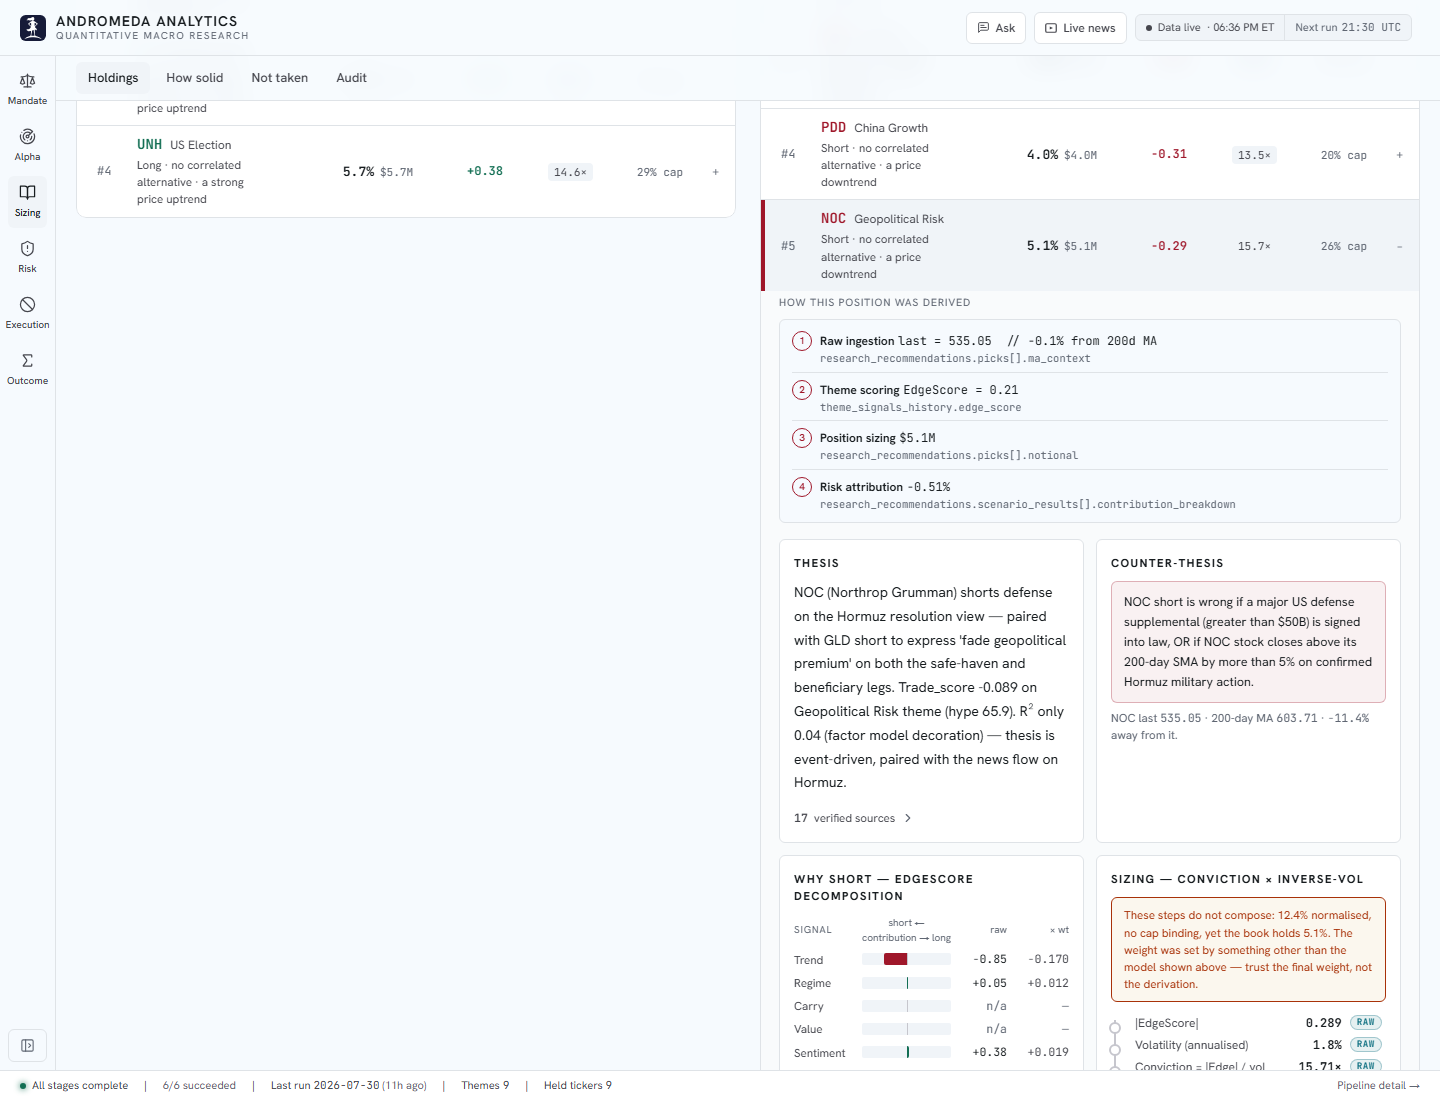
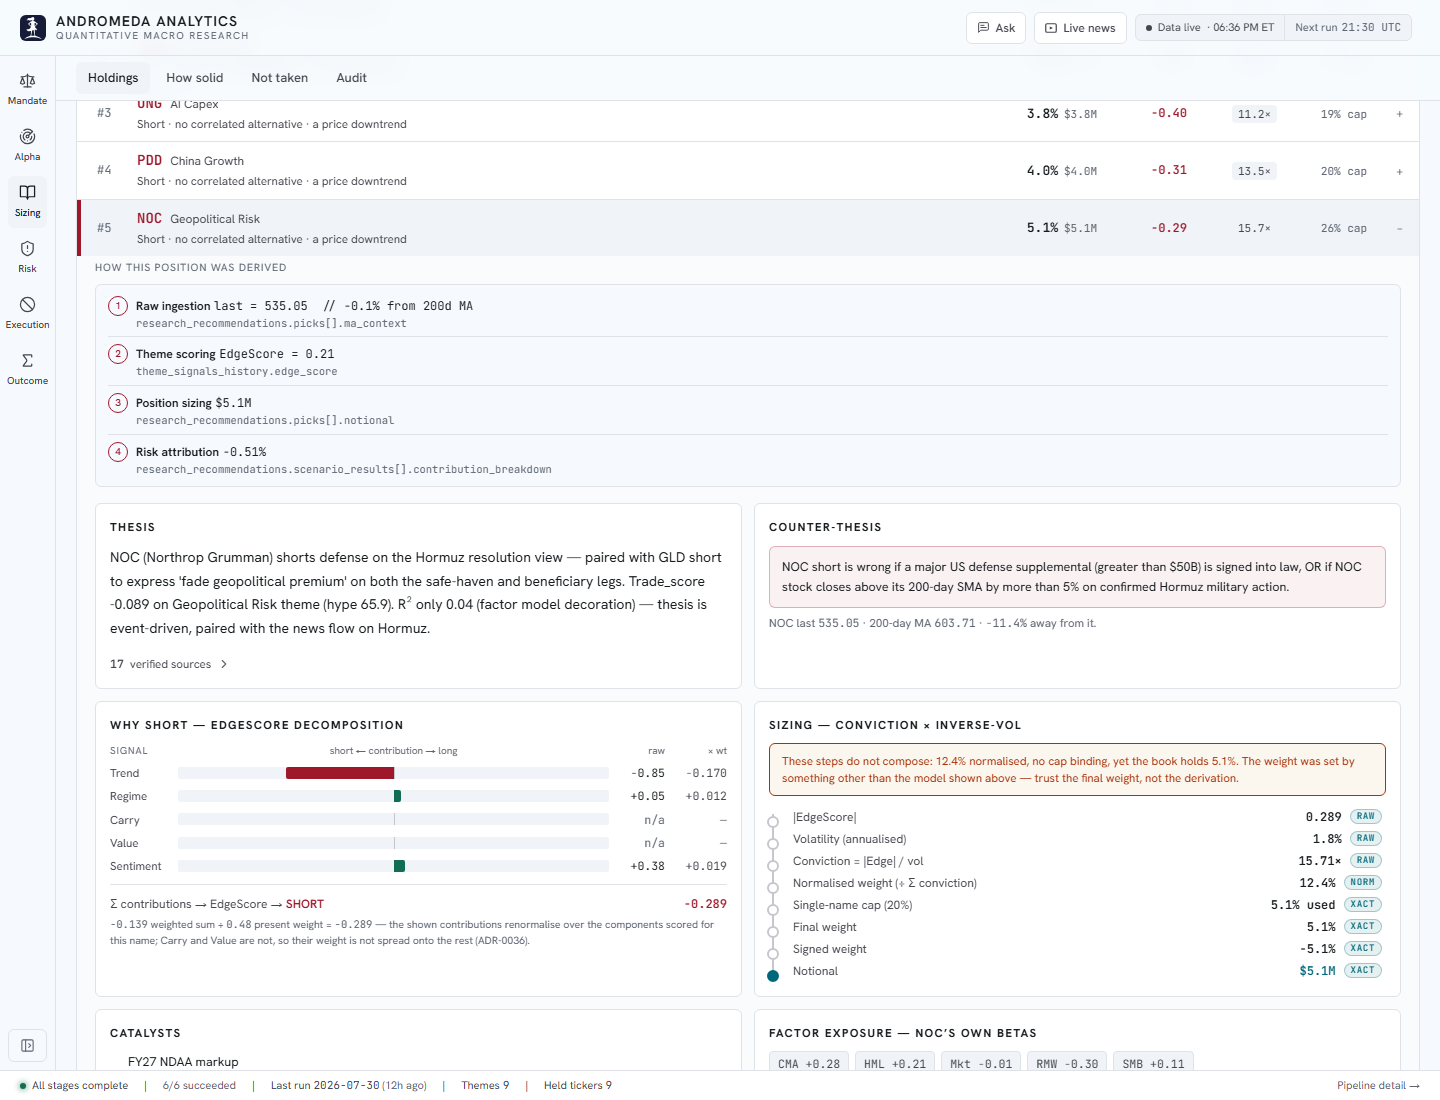
fix(book): the open row gets the whole canvas, instead of half of it
Asked whether the expander should be a popup. Measured it first, at 1440:

    canvas available   1384px
    expanded panel      658px wide  x  1484px tall

The panel was using 48% of the width and paying for it in height -- one and a
half screens, because every paired card inside it (thesis / counter-thesis,
EdgeScore / sizing, catalysts / factor exposure) had to stack in a half-width
column. That is the crowding, and it is a width problem rather than a container
problem.

A MODAL WAS REFUSED, for what this page is. /book exists to be checked: a reader
Ctrl-Fs for a ticker, screenshots a position, sends a deep link, prints it. A
modal defeats all four, and for a book a PM interrogates none of those are
hypothetical. It would also need focus trapping, escape handling, focus restore
and aria-modal, where the row is already keyboard-wired and already addressable
as `#position-<ASSET>`.

Instead the SECTION HOLDING THE OPEN ROW spans both grid columns. One conditional
class, driven by the open key that already exists:

    cellClassName={openAsset?.startsWith("Shorts-") ? "wide:col-span-2" : ""}

    658px x 1484px  ->  1342px x 1209px

97% of the canvas, and 275px shorter because the paired cards stop stacking. The
other section wraps below while a row is open, which is a reflow a reader caused
deliberately by opening a detail view.

`wide:` only, so nothing changes below that breakpoint -- the sections are
already full-width there. Verified: no horizontal overflow at 430.
[…]

diff --git a/frontend/components/book/BookBody.tsx b/frontend/components/book/BookBody.tsx
@@ -1234,6 +1234,9 @@ function BookPageInner() {
               <PositionSection
                 lens={lens}
                 title="Longs"
+                cellClassName={
+                  openAsset?.startsWith("Longs-") ? "wide:col-span-2" : ""
+                }
                 glyph="▲"
                 color="var(--long)"
                 picks={longs}
@@ -1258,6 +1261,9 @@ function BookPageInner() {
               <PositionSection
                 lens={lens}
                 title="Shorts"
+                cellClassName={
+                  openAsset?.startsWith("Shorts-") ? "wide:col-span-2" : ""
+                }
                 glyph="▼"
                 color="var(--short)"
                 picks={shorts}
@@ -1713,6 +1719,7 @@ function PositionSection({
   emptySeverity,
   clearedByHeldAsset,
   lens,
+  cellClassName,
 }: {
   title: string;
   glyph: string;
@@ -1745,9 +1752,12 @@ function PositionSection({
   /** Carried only so `PositionRow`'s one outbound /risk link keeps the
    *  reader on the book they are reading. */
   lens?: string | null;
+  /** Grid-cell classes from the parent — used to let the section holding the
+   *  OPEN row span both columns. See the call sites. */
+  cellClassName?: string;
 }) {
   return (
-    <section className="mb-6">
+    <section className={`mb-6 ${cellClassName ?? ""}`}>
       <h2 className="text-[16px] font-semibold m-0 mb-3 flex items-center gap-2">
         <span style={{ color }}>{glyph}</span> {title}
         <span className="text-text-tertiary text-[12px] font-normal">
